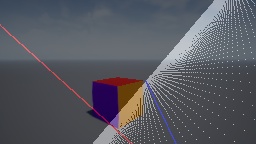
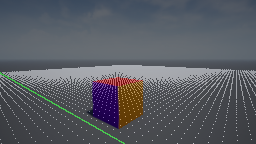
changed camera pose quaternion to work with NED orientation from EDN

diff --git a/measure_cube.py b/measure_cube.py
@@ -52,11 +52,14 @@ class Camera:
         K[1, 2] = (im_h / 2.)
         return K
 
-    def get_cam_rot_trans_matrix(self, cam_world_loc_xyz, cam_quaternion):
-        a, b, c, d = cam_quaternion
-        rotation_matrix = np.array([[2 * a ** 2 - 1 + 2 * b ** 2,       2 * b * c + 2 * a * d,        2 * b * d - 2 * a * c],
-                                    [2 * b * c - 2 * a * d,       2 * a ** 2 - 1 + 2 * c ** 2,        2 * c * d + 2 * a * b],
-                                    [2 * b * d + 2 * a * c,             2 * c * d - 2 * a * b,  2 * a ** 2 - 1 + 2 * d ** 2]])
+    def get_cam_rot_trans_matrix(self, cam_world_loc_xyz, cam_quaternion_ned):
+        a, b, c, d = cam_quaternion_ned
+        # rotation_matrix = np.array([[2 * a ** 2 - 1 + 2 * b ** 2,       2 * b * c + 2 * a * d,        2 * b * d - 2 * a * c],
+        #                             [2 * b * c - 2 * a * d,       2 * a ** 2 - 1 + 2 * c ** 2,        2 * c * d + 2 * a * b],
+        #                             [2 * b * d + 2 * a * c,             2 * c * d - 2 * a * b,  2 * a ** 2 - 1 + 2 * d ** 2]])
+        rotation_matrix = np.array([[2 * b * c - 2 * a * d, 2 * a ** 2 - 1 + 2 * c ** 2, 2 * c * d + 2 * a * b],
+                                    [2 * b * d + 2 * a * c, 2 * c * d - 2 * a * b, 2 * a ** 2 - 1 + 2 * d ** 2],
+                                    [2 * a ** 2 - 1 + 2 * b ** 2, 2 * b * c + 2 * a * d, 2 * b * d - 2 * a * c]])
         x, y, z = cam_world_loc_xyz
         translation_vector = np.array([-x, -y, -z])
         rotation_translation_matrix = np.eye(4)[:3]
@@ -205,7 +208,10 @@ class View:
     def read_pose_loc(self, d):
         line2num = lambda i: float(d[i].replace('}', '').strip().split(':')[-1].split(',')[0].strip())
         q = np.array([line2num(i) for i in range(4)])
-        xyz = np.array([line2num(i) for i in range(4, 7)])
+        q = q / np.linalg.norm(q)
+        # q = np.array([1, 0, 0, 0])
+        n, e, d = np.array([line2num(i) for i in range(4, 7)])
+        xyz = np.array([e, d, n])
         return q, xyz
 
     def init(self, loc_xyz=None, quaternion=None):
@@ -289,7 +295,6 @@ class Build3D:
                 cv2.drawMarker(im, (int(x), int(y)), colors[k], markerSize=5)
             i += 1
             cv2.imwrite(str(j) + '.png', im)
-
         top_bottom_xyzs = []
         errs = []
         for i in range(tracking_points_all.shape[1]):
@@ -319,7 +324,7 @@ class Build3D:
 
     def viz_en_planes(self):
         for view in self.views:
-            im = view.cam.viz_plane(100, 2)
+            im = view.cam.viz_plane(100, 1)
             im = (.5 * im + .5 * view.im).astype(np.uint8)
             cv2.imwrite('misc/' + view.id + '_en-plane.png', im)
 
@@ -350,18 +355,20 @@ def gen_cube_enus(side=15, center_enu=[0, 0, 0]):
 
 
 #  up-down, pitch, yaw, roll
-def animate_plane(plane_idx=2, rand=True, qidx=3, w=2*640, h=2*360, start_quaternion=[1., 0., 0., 0.],
+def animate_plane(plane_idx=0, rand=True, qidx=0, w=2*640, h=2*360, start_quaternion=[0., 1., 0., 0.],
                   start_enu=[1, -50, -.5]):
     cam = Camera(start_enu, w, h, start_quaternion)
     start_quaternion = np.array(start_quaternion)
     viz_points = gen_cube_enus()
     if not rand:
-        qvals0 = np.linspace(-1., 1., 1000)
-        qvals1 = np.linspace(1., -1., 1000)
+        # start_enu = [0, 0, 0]
+        qvals0 = np.linspace(-1, 1., 10000)
+        qvals1 = np.linspace(1., -1., 10000)
         while True:
             for qval in qvals0:
                 q = start_quaternion.copy()
                 q[qidx] = qval
+                q = q / np.linalg.norm(q)
                 cam.update_cam_loc_pose(start_enu, q)
                 print(qval)
                 im = cam.viz_plane(100, plane_idx, -1, write_coords=False)
@@ -377,6 +384,7 @@ def animate_plane(plane_idx=2, rand=True, qidx=3, w=2*640, h=2*360, start_quater
                 cv2.waitKey(1)
     else:
         q = start_quaternion.copy()
+        q = q / np.linalg.norm(q)
         enu = np.array(start_enu)
         while True:
             cam.update_cam_loc_pose(enu, q)
@@ -390,12 +398,13 @@ def animate_plane(plane_idx=2, rand=True, qidx=3, w=2*640, h=2*360, start_quater
             cv2.imshow('plane_render', im)
             cv2.waitKey(1)
             q = q + np.random.uniform(low=-.01, high=.01, size=4)
+            q = q / np.linalg.norm(q)
             # enu = enu + np.random.uniform(low=0, high=1, size=3)
             enu = enu + [np.random.uniform(-.1, .1), np.random.uniform(.0, .1), np.random.uniform(0, .05)]
 
 
 if __name__ == '__main__':
-    animate_plane()
+    # animate_plane()
 
     im_fpaths = np.array(glob(IMAGE_DIR + os.sep + '*'))
     ids = [n.split(os.sep)[-1].split('_')[0] for n in im_fpaths]
